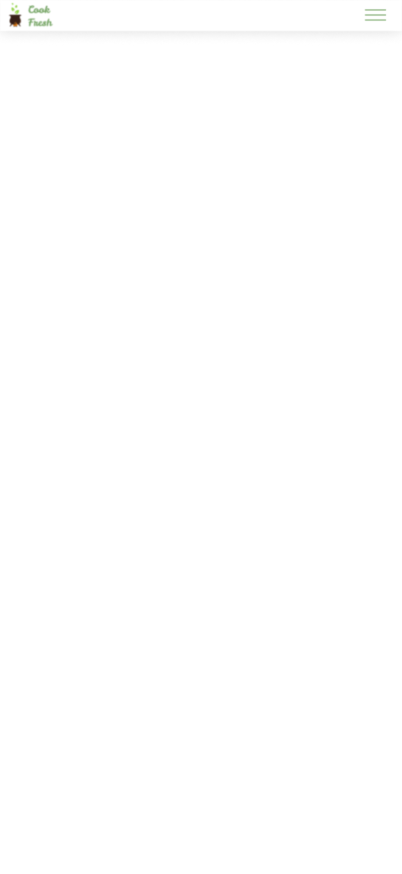
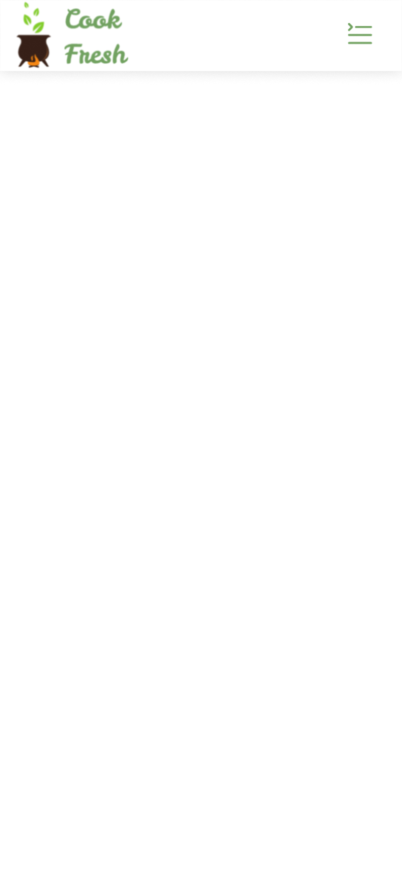
mobile screen blur fixed

Changed region(s): [[0.0, 0.0, 0.3284, 0.0927], [0.8657, 0.0, 0.9552, 0.0618]]

diff --git a/app/(auth)/layout.tsx b/app/(auth)/layout.tsx
@@ -2,7 +2,7 @@ import { ReactNode } from "react";
 
 const AuthLayout = ({ children }: { children: ReactNode }) => {
   return (
-    <main className="flex min-h-screen items-center justify-center bg-authmob  px-4 py-10 sm:bg-auth">
+    <main className="flex min-h-screen items-center justify-center bg-authmob  px-4 py-10 gg:bg-auth">
       <section className="min-w-full rounded-none border bg-white py-10 shadow-md sm:min-w-[520px] sm:px-8">
         {children}
       </section>

diff --git a/tailwind.config.ts b/tailwind.config.ts
@@ -8,6 +8,18 @@ const config: Config = {
     "./app/**/*.{js,ts,jsx,tsx,mdx}",
   ],
   theme: {
+    screens: {
+      sm: "640px",
+
+      md: "768px",
+
+      lg: "1024px",
+
+      xl: "1280px",
+
+      "2xl": "1536px",
+      gg: "428px",
+    },
     extend: {
       colors: {
         logo: {
